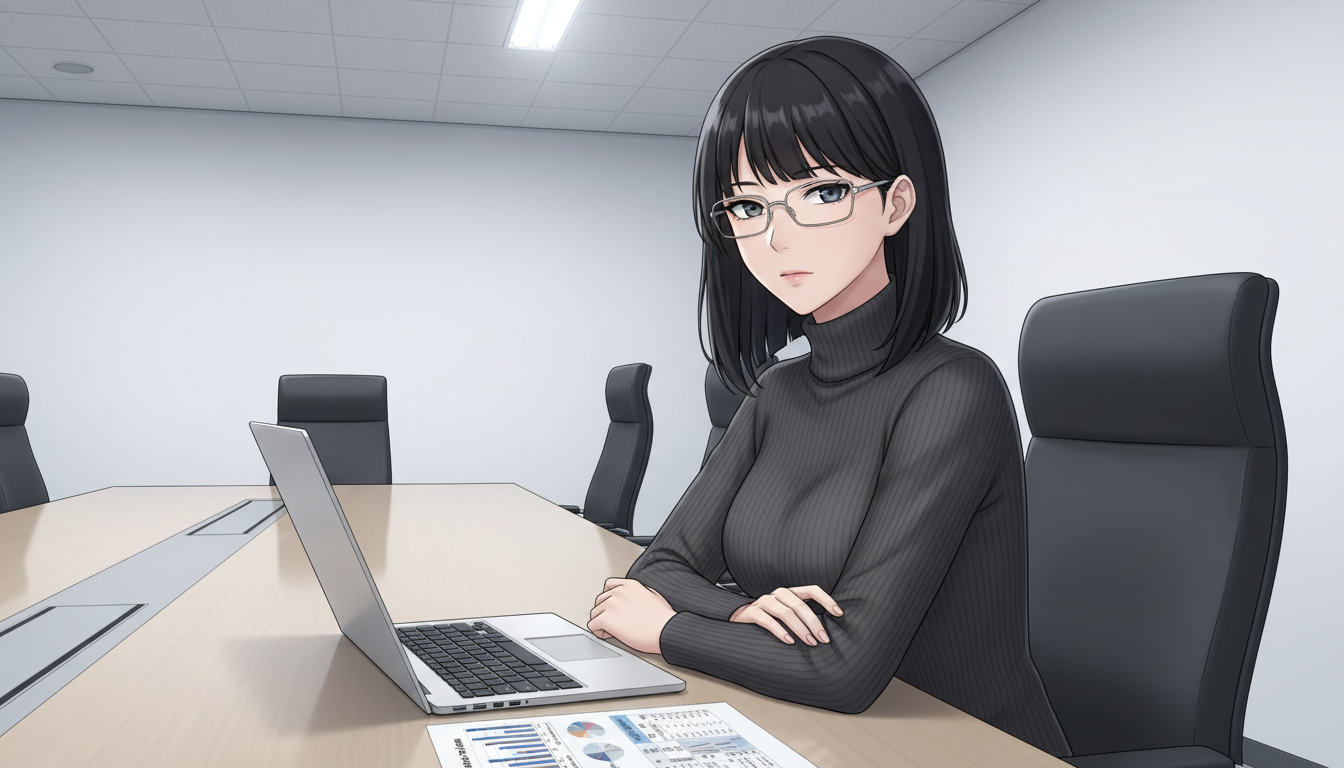
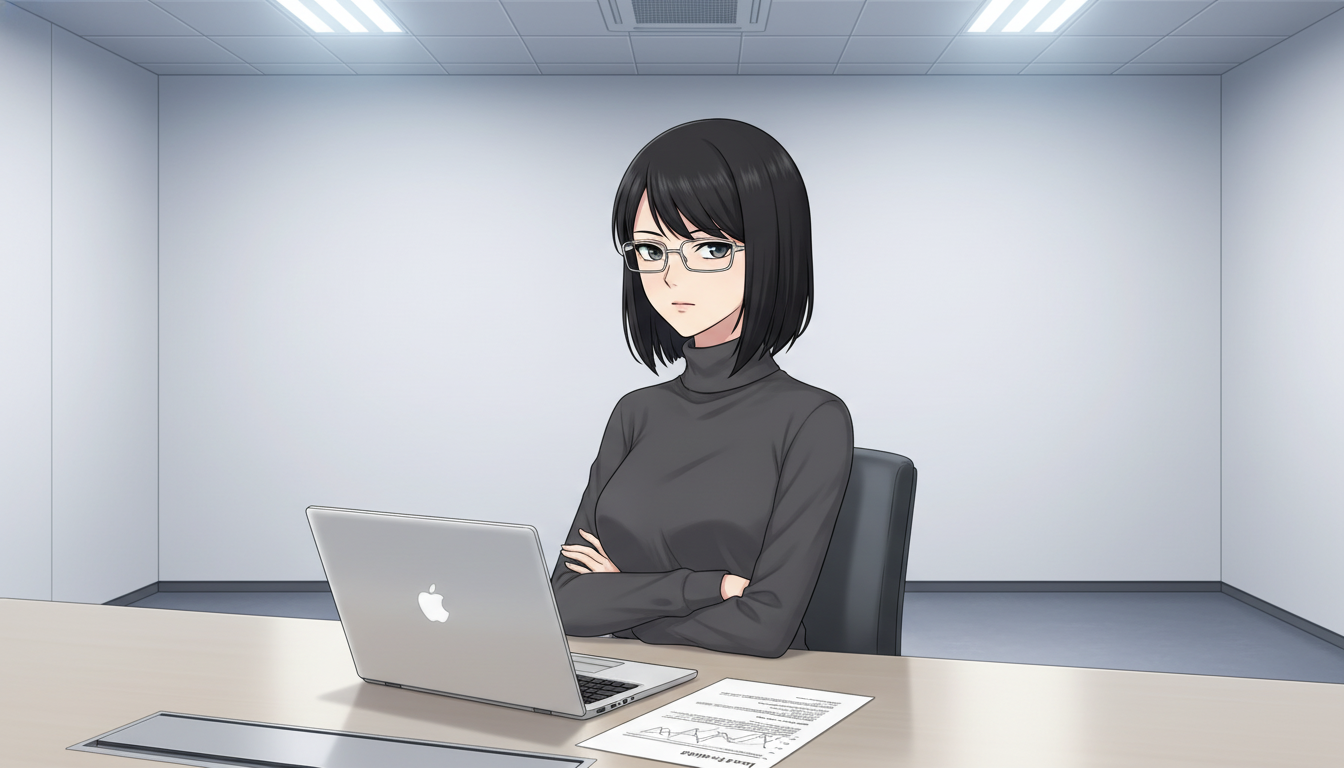
regen: index.html

diff --git a/sim/engine/v2.css b/sim/engine/v2.css
@@ -67,23 +67,30 @@ body {
 .scene {
   flex: 1; display: flex; flex-direction: column;
   position: relative; min-height: 100vh; min-height: 100dvh;
-  background-size: cover; background-position: center; background-color: #000;
+  background: #000;
+}
+.scene .bg-wrap {
+  position: relative; width: 100%;
+  aspect-ratio: 16/9;
+  background: #0c0c12;
+  flex-shrink: 0;
+  overflow: hidden;
 }
 .scene .bg-img {
-  position: absolute; inset: 0; width: 100%; height: 100%;
-  object-fit: cover; z-index: 0;
+  width: 100%; height: 100%;
+  object-fit: cover; display: block;
 }
 .scene .bg-overlay {
   position: absolute; inset: 0;
-  background: linear-gradient(180deg, rgba(0,0,0,0.0) 35%, rgba(0,0,0,0.65) 100%);
+  background: linear-gradient(180deg, rgba(0,0,0,0.3) 0%, rgba(0,0,0,0) 25%, rgba(0,0,0,0) 75%, rgba(0,0,0,0.5) 100%);
   z-index: 1; pointer-events: none;
 }
 
 /* Top status bar — affinity 4 bars */
 .statusbar {
-  position: relative; z-index: 2;
+  position: absolute; top: 0; left: 0; right: 0; z-index: 3;
   display: grid; grid-template-columns: repeat(4, 1fr); gap: 6px;
-  padding: 10px 12px 8px;
+  padding: 10px 12px 14px;
   background: linear-gradient(180deg, rgba(0,0,0,0.55) 0%, rgba(0,0,0,0) 100%);
 }
 .aff-pill {
@@ -112,21 +119,21 @@ body {
   padding: 6px 10px; font-size: 11px; cursor: pointer;
 }
 
-/* Scene label */
+/* Scene label — placed at bottom of bg-wrap as overlay */
 .scene-label {
-  position: relative; z-index: 2;
-  margin: 4px 12px 0; font-size: 11px; color: rgba(255,255,255,0.7);
+  position: absolute; bottom: 8px; left: 12px; z-index: 3;
+  font-size: 11px; color: rgba(255,255,255,0.85);
   font-weight: 600; letter-spacing: 0.02em;
+  padding: 3px 8px; background: rgba(0,0,0,0.45); border-radius: 6px;
 }
 
 /* Dialog box */
 .dialog {
-  position: relative; z-index: 2; margin-top: auto;
-  background: var(--surface); border-top: 1px solid rgba(0,0,0,0.06);
-  padding: 16px 20px 24px;
-  border-radius: 18px 18px 0 0;
-  box-shadow: 0 -10px 30px rgba(0,0,0,0.25);
-  min-height: 200px;
+  flex: 1;
+  background: var(--surface);
+  padding: 18px 20px 28px;
+  min-height: 220px;
+  display: flex; flex-direction: column;
 }
 .dialog .speaker {
   display: inline-flex; align-items: center; gap: 6px;
@@ -166,12 +173,11 @@ body {
 }
 .next-btn:active { transform: scale(0.97); }
 
-/* Reply popup (post-choice) */
+/* Reply popup (post-choice) — overlay on top of dialog */
 .reply-popup {
-  position: relative; z-index: 2;
-  margin: 0 16px 12px; padding: 12px 14px;
+  margin: 0 0 12px; padding: 10px 12px;
   background: #fffbe6; border-left: 3px solid var(--accent);
-  border-radius: 10px; font-size: 13px; color: var(--ink-soft);
+  border-radius: 8px; font-size: 13px; color: var(--ink-soft);
   animation: fadein 0.25s ease;
 }
 

diff --git a/sim/engine/v2.js b/sim/engine/v2.js
@@ -228,21 +228,20 @@
 
     const sceneEl = el('div', { class: 'scene fade-in' });
 
-    // bg
+    // bg-wrap: 16:9 image area + overlays
+    const bgWrap = el('div', { class: 'bg-wrap' });
     if (scene.scene_asset) {
       const img = el('img', {
         class: 'bg-img',
         src: opts.assetsBase + scene.scene_asset + '.png',
         alt: scene.label || '',
       });
-      sceneEl.appendChild(img);
+      bgWrap.appendChild(img);
     }
-    sceneEl.appendChild(el('div', { class: 'bg-overlay' }));
-
-    // status bar
-    sceneEl.appendChild(renderStatusbar(script, state));
-
-    // menu
+    bgWrap.appendChild(el('div', { class: 'bg-overlay' }));
+    // status bar (overlay on top of bg)
+    bgWrap.appendChild(renderStatusbar(script, state));
+    // menu button (overlay)
     const menubar = el('div', { class: 'menubar' });
     const menuBtn = el('button', { type: 'button' }, '메뉴');
     menuBtn.addEventListener('click', () => {
@@ -254,20 +253,20 @@
       }
     });
     menubar.appendChild(menuBtn);
-    sceneEl.appendChild(menubar);
+    bgWrap.appendChild(menubar);
+    // label (overlay at bottom)
+    if (scene.label) bgWrap.appendChild(el('div', { class: 'scene-label' }, scene.label));
+    sceneEl.appendChild(bgWrap);
 
-    // label
-    if (scene.label) sceneEl.appendChild(el('div', { class: 'scene-label' }, scene.label));
+    // dialog (below bg, natural flow)
+    const dialog = el('div', { class: 'dialog' });
 
-    // reply popup (after choice)
+    // reply popup (post-choice) — inside dialog now
     if (state.replyText) {
       const rp = el('div', { class: 'reply-popup' });
       rp.textContent = (state.replyChar ? state.replyChar + ': ' : '') + state.replyText;
-      sceneEl.appendChild(rp);
+      dialog.appendChild(rp);
     }
-
-    // dialog
-    const dialog = el('div', { class: 'dialog' });
     const speakerLabel = scene.speaker && scene.speaker !== 'narrator' ? scene.speaker : '·';
     const face = scene.face ? faceEmoji(script, scene.face) : '';
     const speaker = el('div', { class: 'speaker' });

diff --git a/index.html b/index.html
@@ -426,7 +426,7 @@
 </main>
 <footer>
   <img src="https://cornbee.github.io/ongle/assets/ongle/ongle_idle.png" alt="" class="footer-mascot" loading="lazy">
-  © 2026 ONGLE · 마지막 업데이트: 2026-05-19 22:49
+  © 2026 ONGLE · 마지막 업데이트: 2026-05-19 23:10
 </footer>
 <script>
   const buttons = document.querySelectorAll('.cat-btn');
